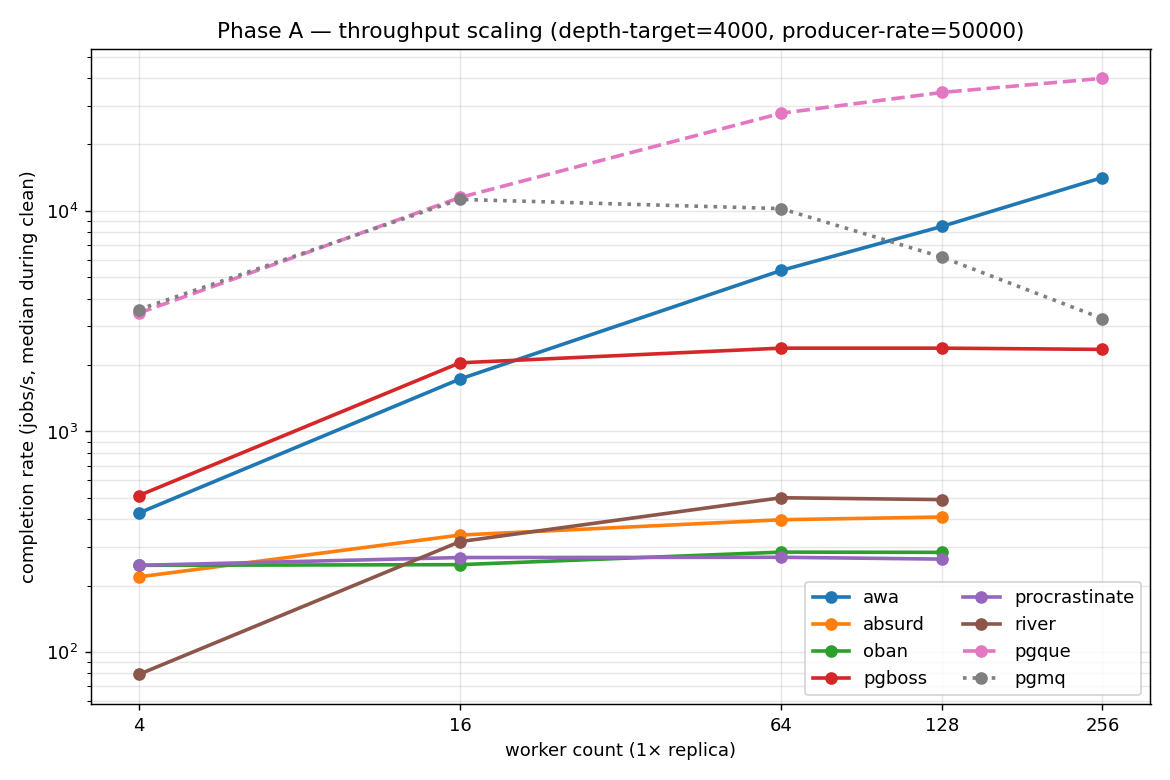
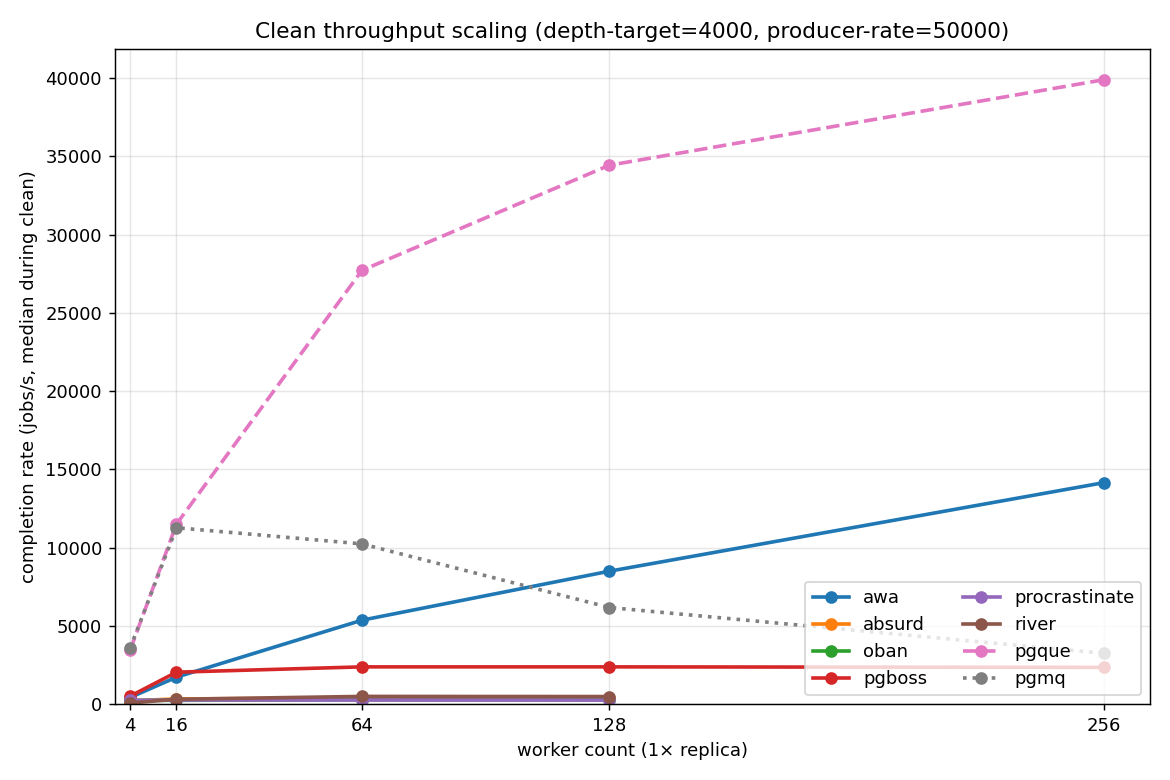
Refresh README benchmark headline

diff --git a/results/2026-05-09-full-sweep/scripts/render_plots.py b/results/2026-05-09-full-sweep/scripts/render_plots.py
@@ -2,6 +2,7 @@
 """Render headline plots for the 2026-05-09 full sweep from matrix.csv.
 
 Produces (when source data is present):
+  - headline_throughput.png — peak clean completion_rate by contract
   - throughput_scaling.png  — Phase A peak completion_rate per system across W
   - chaos_summary.png       — Phase B 8x5 heatmap of recovery/baseline ratio
   - bloat_summary.png       — Phase C 8x4 heatmap of stress/clean ratio
@@ -39,6 +40,18 @@ JOB_QUEUES = ["awa", "absurd", "oban", "pgboss", "procrastinate", "river"]
 VT_QUEUES = ["pgmq"]
 EVENT_BUSES = ["pgque"]
 
+CONTRACT = {
+    **{s: "Job queue" for s in JOB_QUEUES},
+    **{s: "Visibility-timeout queue" for s in VT_QUEUES},
+    **{s: "Event/message bus" for s in EVENT_BUSES},
+}
+
+CONTRACT_COLOR = {
+    "Job queue": "#4E79A7",
+    "Visibility-timeout queue": "#59A14F",
+    "Event/message bus": "#E377C2",
+}
+
 LINE_STYLE = {
     **{s: "-" for s in JOB_QUEUES},
     **{s: ":" for s in VT_QUEUES},
@@ -56,9 +69,7 @@ def fnum(s):
 
 
 # ── Phase A throughput scaling ───────────────────────────────────────
-def plot_throughput_scaling(rows):
-    # We need clean-phase median completion_rate per (system, worker_count)
-    # using only Phase A cells.
+def phase_a_completion_series(rows):
     series = defaultdict(dict)  # system -> {workers: rate}
     for r in rows:
         if r.get("phase") != "A":
@@ -74,6 +85,69 @@ def plot_throughput_scaling(rows):
         if rate is None:
             continue
         series[sys_name][w] = rate
+    return series
+
+
+def plot_headline_throughput(rows):
+    series = phase_a_completion_series(rows)
+    peaks = []
+    for system, by_worker in series.items():
+        if not by_worker:
+            continue
+        worker, rate = max(by_worker.items(), key=lambda item: item[1])
+        peaks.append((rate, system, worker))
+    if not peaks:
+        return
+
+    peaks.sort()
+    systems = [system for _, system, _ in peaks]
+    values = [rate for rate, _, _ in peaks]
+    workers = [worker for _, _, worker in peaks]
+    colors = [CONTRACT_COLOR[CONTRACT[system]] for system in systems]
+
+    fig, ax = plt.subplots(figsize=(10, 5.8))
+    y = np.arange(len(systems))
+    ax.barh(y, values, color=colors, alpha=0.9)
+    ax.set_yticks(y)
+    ax.set_yticklabels([s.replace("pgboss", "pg-boss") for s in systems])
+    ax.set_xlabel("peak median completion rate (jobs/s)")
+    ax.set_title("Peak throughput by queue contract")
+    ax.set_xlim(0, max(values) * 1.16)
+    ax.grid(True, axis="x", alpha=0.25)
+    ax.spines["top"].set_visible(False)
+    ax.spines["right"].set_visible(False)
+
+    for yi, value, worker in zip(y, values, workers, strict=True):
+        ax.text(
+            value + max(values) * 0.012,
+            yi,
+            f"{value:,.0f} @ 1x{worker}w",
+            va="center",
+            fontsize=9,
+        )
+
+    handles = [
+        plt.Line2D([0], [0], marker="s", linestyle="", markersize=9, color=color, label=label)
+        for label, color in CONTRACT_COLOR.items()
+    ]
+    ax.legend(handles=handles, loc="lower right", frameon=True)
+    ax.text(
+        0,
+        -0.16,
+        "pgque is shown in the benchmark's single-consumer competing-consumers mode; native fan-out is a different contract.",
+        transform=ax.transAxes,
+        fontsize=9,
+        color="#555",
+    )
+    fig.tight_layout(rect=[0, 0.04, 1, 1])
+    fig.savefig(PLOTS / "headline_throughput.png", dpi=140)
+    plt.close(fig)
+
+
+def plot_throughput_scaling(rows):
+    # We need clean-phase median completion_rate per (system, worker_count)
+    # using only Phase A cells.
+    series = phase_a_completion_series(rows)
     if not series:
         return
     fig, ax = plt.subplots(figsize=(9, 6))
@@ -84,13 +158,12 @@ def plot_throughput_scaling(rows):
         xs = [w for w in ws if w in series[s]]
         ys = [series[s][w] for w in xs]
         ax.plot(xs, ys, LINE_STYLE.get(s, "-"), marker="o", label=s, linewidth=2)
-    ax.set_xscale("log", base=2)
-    ax.set_yscale("log")
     ax.set_xticks(ws)
-    ax.get_xaxis().set_major_formatter(plt.matplotlib.ticker.ScalarFormatter())
+    ax.set_xlim(0, max(ws) + 12)
+    ax.set_ylim(bottom=0)
     ax.set_xlabel("worker count (1× replica)")
     ax.set_ylabel("completion rate (jobs/s, median during clean)")
-    ax.set_title("Phase A — throughput scaling (depth-target=4000, producer-rate=50000)")
+    ax.set_title("Clean throughput scaling (depth-target=4000, producer-rate=50000)")
     ax.grid(True, which="both", alpha=0.3)
     ax.legend(loc="lower right", ncol=2)
     fig.tight_layout()
@@ -318,6 +391,7 @@ def plot_soak_dead_tuples():
 
 def main():
     rows = load_matrix()
+    plot_headline_throughput(rows)
     plot_throughput_scaling(rows)
     plot_chaos_summary(rows)
     plot_bloat_summary(rows)

diff --git a/bench_harness/plots.py b/bench_harness/plots.py
@@ -83,7 +83,6 @@ class PlotSpec:
     title: str
     filename_stem: str
     y_label: str
-    log_scale: bool = False
     use_raw_underlay: bool = False
     sum_by_subject: bool = True  # aggregate across subject per system
     subject_kind: str | None = None  # filter to a kind (e.g. "table")
@@ -101,7 +100,6 @@ PLOT_SPECS: dict[str, PlotSpec] = {
         title="Claim p99 latency",
         filename_stem="claim_p99",
         y_label="claim p99 latency (ms)",
-        log_scale=False,
         use_raw_underlay=True,
         subject_kind="adapter",
         sum_by_subject=False,
@@ -110,7 +108,6 @@ PLOT_SPECS: dict[str, PlotSpec] = {
         title="Producer p99 latency",
         filename_stem="producer_p99",
         y_label="producer p99 latency (ms)",
-        log_scale=False,
         use_raw_underlay=True,
         subject_kind="adapter",
         sum_by_subject=False,
@@ -119,7 +116,6 @@ PLOT_SPECS: dict[str, PlotSpec] = {
         title="Producer call p99 latency",
         filename_stem="producer_call_p99",
         y_label="producer call p99 latency (ms)",
-        log_scale=False,
         use_raw_underlay=True,
         subject_kind="adapter",
         sum_by_subject=False,
@@ -128,7 +124,6 @@ PLOT_SPECS: dict[str, PlotSpec] = {
         title="Subscriber p99 latency",
         filename_stem="subscriber_p99",
         y_label="subscriber p99 latency (ms)",
-        log_scale=False,
         use_raw_underlay=True,
         subject_kind="adapter",
         sum_by_subject=False,
@@ -137,7 +132,6 @@ PLOT_SPECS: dict[str, PlotSpec] = {
         title="End-to-end p99 latency",
         filename_stem="end_to_end_p99",
         y_label="end-to-end p99 latency (ms)",
-        log_scale=False,
         use_raw_underlay=True,
         subject_kind="adapter",
         sum_by_subject=False,
@@ -350,7 +344,6 @@ def _setup_axes(
     phases: Iterable[Phase],
     title: str,
     y_label: str,
-    log_scale: bool,
 ) -> None:
     phase_list = list(phases)
     total_s = sum(p.duration_s for p in phase_list) or 1
@@ -384,8 +377,6 @@ def _setup_axes(
     ax.xaxis.set_major_formatter(plt.FuncFormatter(_fmt))
     ax.set_xlabel("elapsed time")
     ax.set_xlim(0, total_s)
-    if log_scale:
-        ax.set_yscale("log")
     ax.grid(True, axis="y", linestyle=":", color="#999", alpha=0.4)
     ax.spines["top"].set_visible(False)
     ax.spines["right"].set_visible(False)
@@ -430,7 +421,6 @@ def render_plot(
         phases=phases,
         title=spec.title,
         y_label=spec.y_label,
-        log_scale=spec.log_scale,
     )
     fig.text(
         0.5,
@@ -658,7 +648,6 @@ def render_faceted_dead_tuples(
             phases=phases,
             title=panel_title,
             y_label="n_dead_tup",
-            log_scale=False,
         )
         subject_series: list[tuple[str, list[tuple[float, float]], float]] = []
         subjects = {

diff --git a/scripts/render_readme_plots.py b/scripts/render_readme_plots.py
@@ -247,7 +247,7 @@ def plot_throughput(df: pd.DataFrame, out_path: Path) -> None:
 
 
 # ---------------------------------------------------------------------------
-# Plot 2: dead tuples total (log scale)
+# Plot 2: dead tuples total
 # ---------------------------------------------------------------------------
 
 

diff --git a/README.md b/README.md
@@ -14,9 +14,33 @@ Eight Postgres-backed queues, same hardware, same harness. Three
 contracts in the lineup — event bus, job queue, visibility-timeout
 queue — so the throughput list isn't a single ranking. The
 [2026-05-09 sweep](results/2026-05-09-full-sweep/SUMMARY.md) has the
-per-cell numbers, chaos behaviour, bloat resistance, and a 6 h soak.
+per-cell numbers, chaos behaviour, and bloat resistance.
 
-![Sustained throughput vs worker concurrency](results/2026-05-09-full-sweep/plots/throughput_scaling.png)
+![Peak throughput by queue contract](results/2026-05-09-full-sweep/plots/headline_throughput.png)
+
+Headline comparisons from that run:
+
+- **Peak clean throughput:** pgque 39.9 k jobs/s in single-consumer
+  event-bus mode; awa 14.2 k as the fastest full job queue; pgmq
+  11.3 k as a visibility-timeout queue before anti-scaling at higher
+  worker counts.
+- **Chaos recovery:** awa, pgque, and river recover from every
+  scenario. The other five adapters either hit zero or fail to
+  produce recovery samples in at least one chaos cell.
+- **Bloat / pressure:** five adapters time out under at least one
+  sustained-pressure cell; only awa, oban, and pgque complete all
+  four pressure scenarios.
+
+| System | Contract | Chaos recovery | Pressure cells | Notable caveat |
+|---|---|---:|---:|---|
+| awa | job queue | 5/5 | 4/4 | Full job-queue feature surface; fastest job queue in this run. |
+| pgque | event/message bus | 5/5 | 4/4 | Single-consumer mode; batched success ack is a different contract. |
+| river | job queue | 5/5 | 2/4 | Times out in two sustained-pressure cells. |
+| oban | job queue | 4/5 | 4/4 | Handles pressure cells but has lower throughput in this run. |
+| pg-boss | job queue | 3/5 | 2/4 | Postgres-level chaos exits the worker; times out in two pressure cells. |
+| absurd | job queue | 3/5 | 2/4 | Shutdown timeout under pressure. |
+| procrastinate | job queue | 3/5 | 2/4 | Weak repeated-kill recovery; times out in two pressure cells. |
+| pgmq | visibility-timeout queue | 3/5 | 2/4 | Anti-scales past 16 workers and has the active-readers cliff. |
 
 ## Feature comparison
 
@@ -29,25 +53,44 @@ distribution.
 | | awa | Absurd | pg-boss | pgmq | pgque | Oban | Procrastinate | River |
 |---|:-:|:-:|:-:|:-:|:-:|:-:|:-:|:-:|
 | **Language / runtime** | Rust + Python | Python | Node.js | Postgres extension (Rust core) | Postgres extension (PL/pgSQL) | Elixir | Python | Go |
-| **Postgres extension required** | no | no | no | yes (`pgmq`) | optional (`pg_cron` for `pgque.start()`) | no | no | no |
-| **Producer surface — bulk insert** | ✓ | — | ✓ | ✓ | ✓ | ✓ | ✓ | ✓ (COPY) |
+| **Postgres extension required** | no | no | no | yes[^pgmq-extension] | optional[^pgque-cron] | no | no | no |
+| **Producer surface — bulk insert** | ✓ | — | ✓ | ✓ | ✓ | ✓ | ✓ | ✓[^river-copy] |
 | **Storage shape on hot path** | append-only + receipt ring | row-mutating | row-mutating | partitioned archive | append-only + ticker | row-mutating | row-mutating | row-mutating |
-| **Priorities** | ✓ (with aging) | — | ✓ | — | — | ✓ | ✓ | ✓ |
-| **Retries with backoff** | ✓ | ✓ | ✓ | (visibility timeout) | ✓ | ✓ | ✓ | ✓ |
-| **Cron / scheduled jobs** | ✓ | — | ✓ | — | (delayed) | ✓ | ✓ | ✓ |
-| **Dead-letter queue** | ✓ (opt-in) | — | (failed-archive) | (archive table) | ✓ | (discarded) | (discarded) | ✓ |
-| **Unique jobs / dedup** | ✓ | — | ✓ (singleton key) | — | — | ✓ | ✓ | ✓ |
-| **Rate limiting per queue** | ✓ | — | ✓ (throttling) | — | — | ✓ (Pro for global) | (concurrency limit) | ✓ |
-| **Callbacks / external waits** | ✓ | (workflow steps) | (event subscription) | — | — | — | — | — |
-| **Web UI for ops** | ✓ (`awa serve`) | — | (3rd party: pgboss-dashboard) | — | — | ✓ (Oban Web, Pro) | (3rd party) | ✓ |
+| **Priorities** | ✓[^awa-priority-aging] | — | ✓ | — | — | ✓ | ✓ | ✓ |
+| **Retries with backoff** | ✓ | ✓ | ✓ | ✓[^pgmq-vt] | ✓ | ✓ | ✓ | ✓ |
+| **Cron / scheduled jobs** | ✓ | — | ✓ | — | ✓[^pgque-delayed] | ✓ | ✓ | ✓ |
+| **Dead-letter queue** | ✓[^awa-dlq] | — | ✓[^pgboss-failed-archive] | ✓[^pgmq-archive] | ✓ | ✓[^discarded-state] | ✓[^discarded-state] | ✓ |
+| **Unique jobs / dedup** | ✓ | — | ✓[^pgboss-singleton] | — | — | ✓ | ✓ | ✓ |
+| **Rate limiting per queue** | ✓ | — | ✓[^pgboss-throttling] | — | — | ✓[^oban-pro-rate-limit] | ✓[^procrastinate-concurrency] | ✓ |
+| **Callbacks / external waits** | ✓ | ✓[^absurd-workflow-steps] | ✓[^pgboss-events] | — | — | — | — | — |
+| **Web UI for ops** | ✓[^awa-serve] | — | —[^pgboss-dashboard] | — | — | —[^oban-web] | —[^procrastinate-third-party-ui] | ✓ |
+
+[^pgmq-extension]: pgmq can also be installed as SQL, but the benchmark and the common packaged distribution use the `pgmq` Postgres extension.
+[^pgque-cron]: pgque itself is PL/pgSQL. `pg_cron` is needed for the convenience `pgque.start()` ticker; callers may drive the ticker themselves instead.
+[^river-copy]: River's fast bulk path uses the Postgres `COPY` protocol.
+[^awa-priority-aging]: awa priorities include aging so lower-priority work is eventually promoted.
+[^pgmq-vt]: pgmq is a visibility-timeout queue: redelivery is controlled by the visibility timeout rather than a job-framework retry policy with counted attempts and backoff.
+[^pgque-delayed]: pgque supports delayed visibility, but not cron-style periodic scheduling.
+[^awa-dlq]: awa DLQ routing is opt-in via `dlq_enabled_by_default` or a per-queue override.
+[^pgboss-failed-archive]: pg-boss keeps failed/expired job history rather than exposing a separate DLQ queue abstraction.
+[^pgmq-archive]: pgmq archives messages into queue-specific archive tables; that is retention/replay storage rather than a job-framework DLQ policy.
+[^discarded-state]: Oban and Procrastinate retain exhausted failures in discarded/failed states rather than moving them to a separate queue table.
+[^pgboss-singleton]: pg-boss deduplication is expressed through singleton keys and singleton windows.
+[^pgboss-throttling]: pg-boss rate limiting is exposed as throttling.
+[^oban-pro-rate-limit]: Oban OSS supports local queue limits; global rate limiting is an Oban Pro feature.
+[^procrastinate-concurrency]: Procrastinate can limit concurrency with locks/queueing policy, but does not expose a named per-queue rate-limit primitive.
+[^absurd-workflow-steps]: Absurd models external waits as durable workflow steps rather than queue-level callbacks.
+[^pgboss-events]: pg-boss exposes job lifecycle events/subscriptions rather than durable external-wait callbacks.
+[^awa-serve]: awa includes the `awa serve` ops UI.
+[^pgboss-dashboard]: pg-boss has third-party dashboards such as `pgboss-dashboard`, not an official bundled UI.
+[^oban-web]: Oban Web is part of Oban Pro.
+[^procrastinate-third-party-ui]: Procrastinate has community/third-party admin surfaces rather than a bundled official UI.
 
 Dashes indicate "not provided as a documented feature out of the box",
 not "impossible". pgmq / pgque in particular are intentionally minimal
-— you build the worker, you choose the lifecycle. "opt-in" on awa's
-DLQ row means jobs are routed there only when the queue's
-`dlq_enabled_by_default` (or per-queue override) is set. If you spot
-something wrong, please open a PR — corrections welcome from the
-maintainers of any of the systems listed.
+— you build the worker, you choose the lifecycle. If you spot something
+wrong, please open a PR — corrections welcome from the maintainers of
+any of the systems listed.
 
 ## What's in the lineup
 